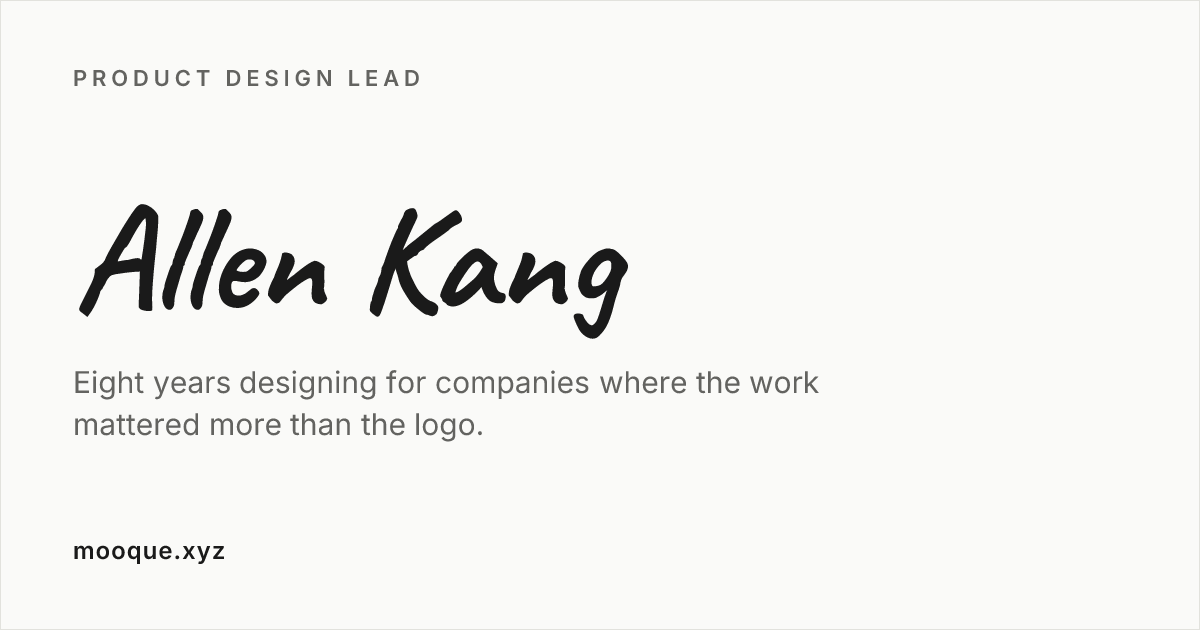
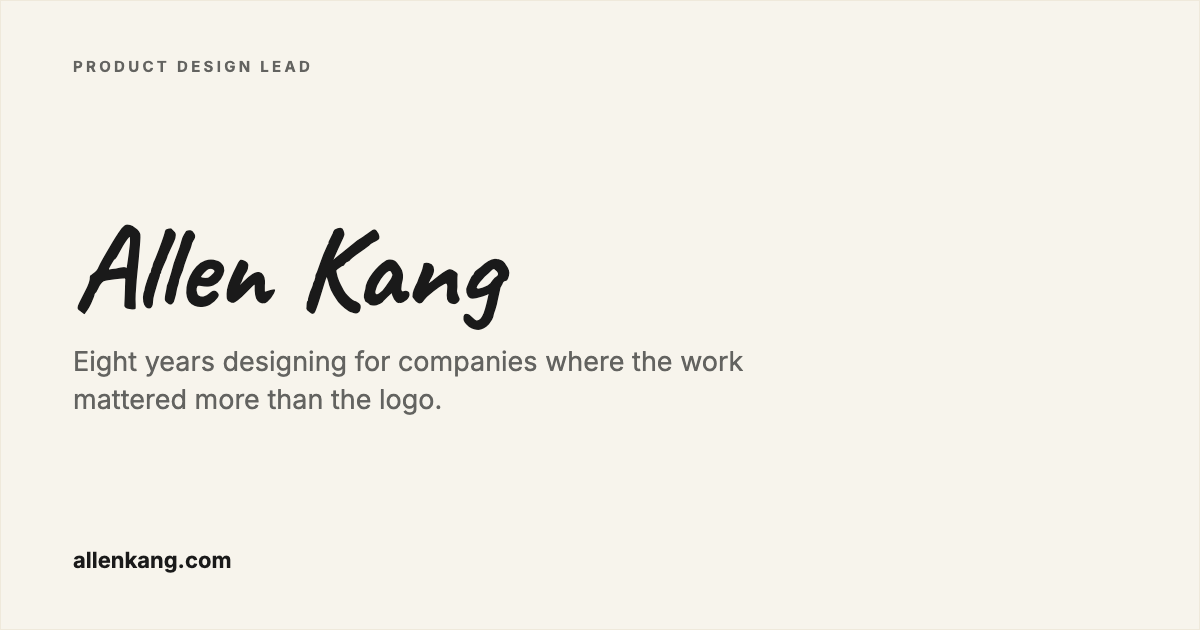
Regenerate the OG/Twitter share image with allenkang.com
app/opengraph-image.png and app/twitter-image.png were static PNGs made
before the domain move, with mooque.xyz baked into the bottom of the image
as pixels. The domain migration only updated code-level references
(metadataBase, sitemap, robots) and had no way to catch text inside a
static image. Rebuilt at the same 1200x630 size, same layout, same fonts
(Caveat + Inter, matching the live site), same copy, with allenkang.com in
place of the old address. Changelog entry added.

Changed region(s): [[0.0617, 0.3317, 0.6783, 0.6937], [0.0617, 0.0905, 0.3392, 0.1508], [0.0617, 0.8444, 0.2158, 0.9048]]

diff --git a/lib/changelog.ts b/lib/changelog.ts
@@ -13,6 +13,13 @@ export interface ChangelogEntry {
 // When you ship a change to this site, add an entry here in the same voice.
 export const changelog: ChangelogEntry[] = [
   {
+    date: "2026-09-30",
+    title: "The link preview card catches up too",
+    tags: ["fix"],
+    what: "The image that shows up when this site's link is pasted into iMessage, LinkedIn, or Slack still said mooque.xyz at the bottom, a static image made before the move to allenkang.com that the domain migration missed because it's pixels, not text. Rebuilt it at the same size and design, with the right address.",
+    why: "The link preview is often the first thing a recruiter sees, before they've clicked anything. It should say where the site actually lives.",
+  },
+  {
     date: "2026-09-28",
     title: "2024 Wrapped gets a better cover",
     tags: ["design"],
